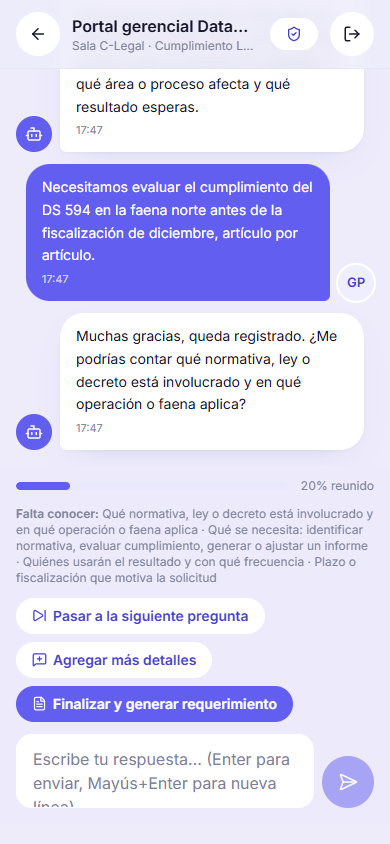
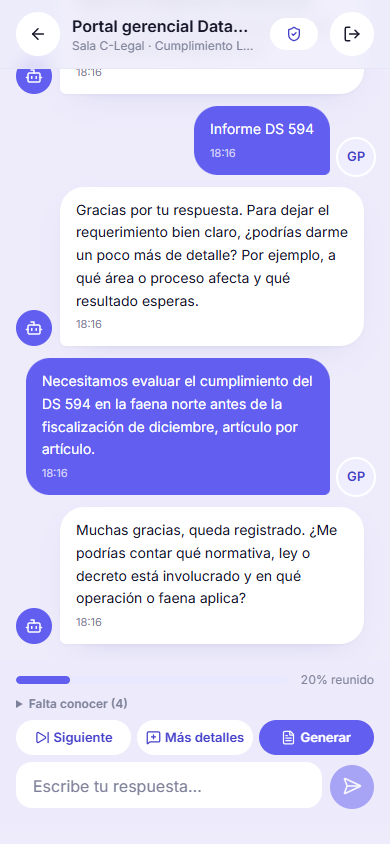
Chat en celular: barra inferior compacta para dejar espacio a la conversación (#13)
Solo bajo 640 px (escritorio sin cambios):
- «Falta conocer» plegado en una línea («Falta conocer (4)»), con <details>.
- Botones en una fila con textos cortos: Siguiente, Más detalles, Generar; el texto completo queda
  como nombre accesible y tooltip.
- Campo de una línea que crece al escribir hasta unas 4 líneas; si la persona está al final de la
  conversación, la página baja con él para que la barra no tape el último mensaje.

Medido en 390 × 844: la barra pasa de unos 400 px a 165 px; el último mensaje del asistente queda
completo sobre la barra, también al escribir; ningún texto de botón queda cortado. Captura v09-24
actualizada.

Fixes #13

diff --git a/components/gerencia/SalaChat.tsx b/components/gerencia/SalaChat.tsx
@@ -18,7 +18,7 @@ import {
 } from "lucide-react";
 import Link from "next/link";
 import { useRouter } from "next/navigation";
-import { useCallback, useEffect, useRef, useState } from "react";
+import { useCallback, useEffect, useLayoutEffect, useRef, useState } from "react";
 import { Avatar } from "@/components/ui";
 import { MENSAJE_SALA_OCUPADA, NOMBRE_PRIORIDAD, type Modulo, type Prioridad, moduloPorClave } from "@/lib/chat/modulos";
 import { ErrorApi, api, cx, horaDe } from "@/lib/cliente";
@@ -68,8 +68,29 @@ export default function SalaChat({ modulo, nombre, esAdmin }: { modulo: Modulo; 
   const [cierre, setCierre] = useState<string | null>(null);
   const [resultado, setResultado] = useState<Resultado | null>(null);
   const [confirmar, setConfirmar] = useState<null | "generar" | "finalizar">(null);
+  // Bajo 640 px (como `sm:` de Tailwind) la barra inferior se compacta (#13)
+  const [angosto, setAngosto] = useState(false);
+  useEffect(() => {
+    const mq = window.matchMedia("(max-width: 639.98px)");
+    const cambio = () => setAngosto(mq.matches);
+    cambio();
+    mq.addEventListener("change", cambio);
+    return () => mq.removeEventListener("change", cambio);
+  }, []);
   const ultimoLatido = useRef(0);
   const entrada = useRef<HTMLTextAreaElement>(null);
+
+  // El campo crece con el texto (hasta max-h-32, unas 4 líneas) y vuelve a su alto mínimo al enviar. Si la
+  // persona está al final de la conversación, la página baja con él para que la barra no tape el último mensaje.
+  useLayoutEffect(() => {
+    const el = entrada.current;
+    if (!el) return;
+    const doc = document.documentElement;
+    const alFinal = window.innerHeight + window.scrollY >= doc.scrollHeight - 80;
+    el.style.height = "auto";
+    el.style.height = `${el.scrollHeight}px`;
+    if (alFinal) window.scrollTo({ top: doc.scrollHeight });
+  }, [texto, angosto]);
 
   /** Errores que cierran la sesión (expiró o ya terminó) pasan a la pantalla de cierre. */
   const manejarError = useCallback((e: unknown) => {
@@ -354,7 +375,7 @@ export default function SalaChat({ modulo, nombre, esAdmin }: { modulo: Modulo; 
                   </div>
                 )}
 
-                <div className="mb-3 flex items-center gap-3">
+                <div className="mb-2 flex items-center gap-3 sm:mb-3">
                   <div
                     className="h-2 flex-1 overflow-hidden rounded-full bg-indigo-suave"
                     role="progressbar"
@@ -374,21 +395,41 @@ export default function SalaChat({ modulo, nombre, esAdmin }: { modulo: Modulo; 
                   </p>
                 )}
                 {faltantes.length > 0 && (
-                  <p className="mb-3 text-xs text-tinta-3">
-                    <span className="font-semibold">Falta conocer:</span> {faltantes.join(" · ")}
-                  </p>
+                  <>
+                    {/* Celular: plegado en una línea para dejar espacio a la conversación (#13) */}
+                    <details className="mb-2 text-xs text-tinta-3 sm:hidden">
+                      <summary className="cursor-pointer font-semibold">Falta conocer ({faltantes.length})</summary>
+                      <p className="mt-1">{faltantes.join(" · ")}</p>
+                    </details>
+                    <p className="mb-3 hidden text-xs text-tinta-3 sm:block">
+                      <span className="font-semibold">Falta conocer:</span> {faltantes.join(" · ")}
+                    </p>
+                  </>
                 )}
 
-                <div className="mb-3 flex flex-wrap gap-2">
-                  <button type="button" onClick={() => enviar("siguiente")} disabled={!!ocupado || !hayRespuestas || alTope} className="boton-suave bg-superficie">
-                    <SkipForward size={15} aria-hidden /> Pasar a la siguiente pregunta
-                  </button>
-                  <button type="button" onClick={() => enviar("mas_detalles")} disabled={!!ocupado || !hayRespuestas || alTope} className="boton-suave bg-superficie">
-                    <MessageSquarePlus size={15} aria-hidden /> Agregar más detalles
-                  </button>
-                  <button type="button" onClick={() => setConfirmar("generar")} disabled={!!ocupado || !hayRespuestas} className="boton">
-                    <FileText size={15} aria-hidden /> Finalizar y generar requerimiento
-                  </button>
+                {/* Celular: una fila con textos cortos (el texto completo queda como nombre accesible y tooltip) */}
+                <div className="mb-2 grid grid-cols-3 gap-1.5 sm:mb-3 sm:flex sm:flex-wrap sm:gap-2">
+                  {(
+                    [
+                      { accion: () => enviar("siguiente"), Icono: SkipForward, corto: "Siguiente", largo: "Pasar a la siguiente pregunta", clase: "boton-suave bg-superficie", off: alTope },
+                      { accion: () => enviar("mas_detalles"), Icono: MessageSquarePlus, corto: "Más detalles", largo: "Agregar más detalles", clase: "boton-suave bg-superficie", off: alTope },
+                      { accion: () => setConfirmar("generar"), Icono: FileText, corto: "Generar", largo: "Finalizar y generar requerimiento", clase: "boton", off: false },
+                    ] as const
+                  ).map((b) => (
+                    <button
+                      key={b.largo}
+                      type="button"
+                      onClick={b.accion}
+                      disabled={!!ocupado || !hayRespuestas || b.off}
+                      aria-label={b.largo}
+                      title={b.largo}
+                      className={cx(b.clase, "min-w-0 gap-1 px-1.5 text-[13px] sm:gap-1.5 sm:px-4 sm:text-sm")}
+                    >
+                      <b.Icono size={15} aria-hidden className="shrink-0" />
+                      <span className="truncate sm:hidden">{b.corto}</span>
+                      <span className="hidden sm:inline">{b.largo}</span>
+                    </button>
+                  ))}
                 </div>
 
                 {confirmar && (
@@ -420,7 +461,7 @@ export default function SalaChat({ modulo, nombre, esAdmin }: { modulo: Modulo; 
                   <textarea
                     id="respuesta"
                     ref={entrada}
-                    rows={2}
+                    rows={angosto ? 1 : 2}
                     maxLength={4000}
                     value={texto}
                     onChange={(e) => {
@@ -433,12 +474,18 @@ export default function SalaChat({ modulo, nombre, esAdmin }: { modulo: Modulo; 
                         enviar("mensaje");
                       }
                     }}
-                    placeholder={alTope ? "Se alcanzó el máximo de respuestas de esta conversación" : "Escribe tu respuesta… (Enter para enviar, Mayús+Enter para nueva línea)"}
+                    placeholder={
+                      alTope
+                        ? "Se alcanzó el máximo de respuestas de esta conversación"
+                        : angosto
+                          ? "Escribe tu respuesta…"
+                          : "Escribe tu respuesta… (Enter para enviar, Mayús+Enter para nueva línea)"
+                    }
                     disabled={alTope}
-                    className="campo min-h-[3.25rem] resize-none bg-superficie"
+                    className="campo max-h-32 min-h-11 resize-none bg-superficie py-2.5 sm:min-h-[3.25rem] sm:py-3"
                     autoFocus
                   />
-                  <button type="submit" disabled={!!ocupado || !texto.trim() || alTope} aria-label="Enviar" title="Enviar" className="boton-icono h-[3.25rem] w-[3.25rem] bg-indigo text-white hover:bg-indigo-hondo hover:text-white disabled:opacity-50">
+                  <button type="submit" disabled={!!ocupado || !texto.trim() || alTope} aria-label="Enviar" title="Enviar" className="boton-icono h-11 w-11 bg-indigo text-white hover:bg-indigo-hondo hover:text-white disabled:opacity-50 sm:h-[3.25rem] sm:w-[3.25rem]">
                     <SendHorizontal size={20} />
                   </button>
                 </form>
